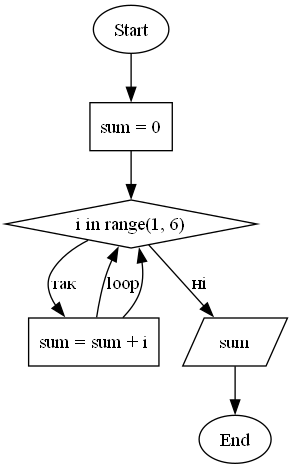
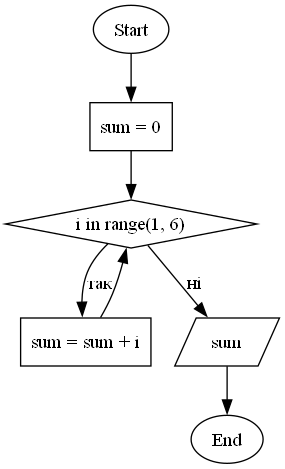
виправлення віддображення стрілок при циклах

diff --git a/PyChart/BlockDiagram.py b/PyChart/BlockDiagram.py
@@ -328,6 +328,14 @@ class BlockDiagram(ABC):
     def _draw_arrow(self, start_end_pos: dict, start_end_indexes: dict, direction: dict, label: str = "") -> None:
         dirs = self._direction
         delta = self._last_arrow_pos_delta - 1
+
+        # 🔍 Перевірка: якщо така стрілка вже існує — нічого не додаємо
+        for arrow in self._diagram['arrows']:
+            if arrow['startIndex'] == start_end_indexes['start'] and \
+                    arrow['endIndex'] == start_end_indexes['end'] and \
+                    arrow.get('label', '') == label:
+                return  # дубль — не додаємо вдруге
+
         arrow = {
             "startIndex": start_end_indexes['start'],
             "endIndex": start_end_indexes['end'],
@@ -335,7 +343,7 @@ class BlockDiagram(ABC):
             "endConnectorIndex": direction['end'],
             "nodes": [],
             "counts": [],
-            "label": label  # Додано мітку
+            "label": label
         }
 
         x1 = start_end_pos['start']['x']
@@ -442,65 +450,47 @@ class BlockDiagram(ABC):
 
         for i in range(len(blocks)):
             b_c = blocks[i]
-            if i + 1 <= len(blocks) - 1:
-                b_n = blocks[i + 1]
-            else:
-                b_n = None
+            b_n = blocks[i + 1] if i + 1 < len(blocks) else None
             struct_type = b_c['struct_type']
             cur_id = b_c['cur_el_id']
 
-            if (struct_type == 'block' or struct_type == 'output') and b_n is not None:
-                self._connect_blocks(
-                    b_c, b_n, {'start': dirs['DOWN'], 'end': dirs['UP']})
-            else:
-                if struct_type == 'loop':
-                    body = self._find_blocks_by_property('parent_id', cur_id)
-                    if body:
-                        # Connect condition to body (YES path)
-                        self._connect_blocks(b_c, body[0],
-                                             {'start': dirs['DOWN'], 'end': dirs['UP']},
-                                             label="так")
+            if struct_type in ['block', 'output'] and b_n:
+                self._connect_blocks(b_c, b_n, {'start': dirs['DOWN'], 'end': dirs['UP']})
 
-                        # Connect body back to condition
-                        self._connect_blocks(body[-1], b_c,
-                                             {'start': dirs['DOWN'], 'end': dirs['UP']},
-                                             label="loop")
+            elif struct_type == 'loop':
+                body = self._find_blocks_by_property('parent_id', cur_id)
+                if body:
+                    # YES → в тіло циклу
+                    self._connect_blocks(b_c, body[0], {'start': dirs['DOWN'], 'end': dirs['UP']}, label="так")
+                    # повтор → назад
+                    self._connect_blocks(body[-1], b_c, {'start': dirs['DOWN'], 'end': dirs['UP']})
+                    # NO → на наступний блок
+                    if b_n:
+                        self._connect_blocks(b_c, b_n, {'start': dirs['RIGHT'], 'end': dirs['UP']}, label="ні")
 
-                        # Connect condition to next block (NO/exit path)
-                        if b_n is not None:
-                            self._connect_blocks(b_c, b_n,
-                                                 {'start': dirs['RIGHT'], 'end': dirs['UP']},
-                                                 label="ні")
+                for item in self._find_farthest_children([b_c]):
+                    self._connect_blocks(
+                        item, b_c,
+                        {'start': dirs['LEFT' if item['struct_type'] == 'if' else 'DOWN'], 'end': dirs['RIGHT']}
+                    )
 
-                    # Handle any nested structures in the loop
-                    for item in self._find_farthest_children([b_c]):
-                        if item['struct_type'] == 'if':
-                            self._connect_blocks(
-                                item, b_c, {'start': dirs['LEFT'], 'end': dirs['RIGHT']})
-                        else:
-                            self._connect_blocks(
-                                item, b_c, {'start': dirs['DOWN'], 'end': dirs['RIGHT']})
+            elif struct_type == 'if':
+                if_body = self._find_blocks_by_property('parent_id', cur_id)
+                else_body = self._find_blocks_by_property('parent_id', cur_id + '-else')
 
-                if struct_type == 'if':
-                    if_body = self._find_blocks_by_property('parent_id', cur_id)
-                    else_body = self._find_blocks_by_property('parent_id', cur_id + '-else')
+                if else_body:
+                    self._connect_blocks(b_c, else_body[0], {'start': dirs['LEFT'], 'end': dirs['UP']}, label="ні")
+                self._connect_blocks(b_c, if_body[0], {'start': dirs['RIGHT'], 'end': dirs['UP']}, label="так")
 
-                    # Add "yes" and "no" labels
-                    if len(else_body) > 0:
-                        self._connect_blocks(b_c, else_body[0],
-                                             {'start': dirs['LEFT'], 'end': dirs['UP']}, label="ні")
-                    self._connect_blocks(b_c, if_body[0],
-                                         {'start': dirs['RIGHT'], 'end': dirs['UP']}, label="так")
-                    self._connect_all_blocks_by_arrows(cur_id)
-                    self._connect_all_blocks_by_arrows(cur_id + '-else')
+                self._connect_all_blocks_by_arrows(cur_id)
+                self._connect_all_blocks_by_arrows(cur_id + '-else')
 
-                    for item in self._find_farthest_children([b_c]):
-                        if item == b_c and b_n is not None:
-                            self._connect_blocks(
-                                item, b_n, {'start': dirs['LEFT'], 'end': dirs['UP']})
-                        elif b_n is not None:
-                            self._connect_blocks(
-                                item, b_n, {'start': dirs['DOWN'], 'end': dirs['UP']})
+                for item in self._find_farthest_children([b_c]):
+                    if item == b_c and b_n:
+                        self._connect_blocks(item, b_n, {'start': dirs['LEFT'], 'end': dirs['UP']})
+                    elif b_n:
+                        self._connect_blocks(item, b_n, {'start': dirs['DOWN'], 'end': dirs['UP']})
+
     def _find_farthest_children(self, blocks: list) -> list:
         children = []
         if len(blocks) == 0:
